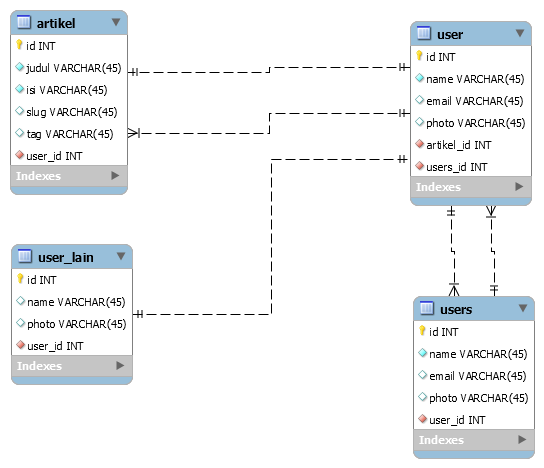
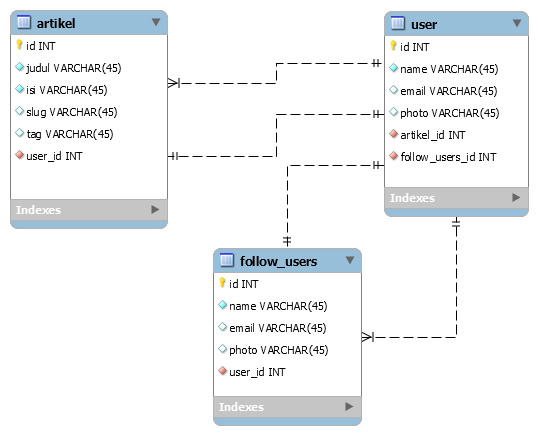
done

diff --git a/resources/views/quiz3/detail_artikel.blade.php b/resources/views/quiz3/detail_artikel.blade.php
@@ -8,16 +8,15 @@
       </div>
       <div class="card-body">
       <ul class="list-group list-group-flush">
-        <li class="list-group-item">Judul Artikel: <br> {{$artikel->judul}}</li>
-        <li class="list-group-item">Slug: {{$artikel->slug}}</li>
+        <li class="list-group-item">Judul Artikel: {{$artikel->judul}}</li>
+        <li class="list-group-item">slug: {{$artikel->slug}}</li>
         <li class="list-group-item">Isi Artikel: <br> {{$artikel->isi}}</li>
-        <ul style="display: flex">
-          <li class="list-group-item"><button class="btn btn-success">{{$artikel->tag}}</button></li>
-          <li class="list-group-item"><button class="btn btn-success">{{$artikel->tag}}</button></li>
-          <li class="list-group-item"><button class="btn btn-success">{{$artikel->tag}}</button></li>
-        </ul>
-        
       </ul>
+      <div class="mt-3 container">
+        <button class="btn btn-success">{{$artikel->tag1}}</button>
+        <button class="btn btn-success">{{$artikel->tag2}}</button>
+        <button class="btn btn-success">{{$artikel->tag3}}</button>
+      </div>
       </div>
     </div>
   </div>

diff --git a/resources/views/quiz3/form_artikel.blade.php b/resources/views/quiz3/form_artikel.blade.php
@@ -9,11 +9,15 @@
    <label for="">Judul Artikel</label>
    <input type="text" class="form-control" name="judul">
    <label for="">Isi Artikel</label>
-   <textarea class="form-control" name="isi" id="" cols="30" rows="10"></textarea>
+   <textarea class="form-control" name="isi" id="" cols="30" rows="10"></textarea> <br>
    <label for="">Slug</label>
-   <input type="text" class="form-control" name="slug">
-   <label for="">Tag</label>
-   <input type="text" class="form-control" name="tag">
+   <input type="text" class="form-control" name="slug"> <br>
+   <label for="">Tag 1</label>
+   <input type="text" class="form-control" name="tag1">
+   <label for="">Tag 2</label>
+   <input type="text" class="form-control" name="tag2">
+   <label for="">Tag 3</label>
+   <input type="text" class="form-control" name="tag3">
    <br>
    <button class="btn btn-primary" type="submit">Create</button>
  </form>

diff --git a/resources/views/quiz3/edit_artikel.blade.php b/resources/views/quiz3/edit_artikel.blade.php
@@ -15,8 +15,12 @@
    <textarea class="form-control" type="text" name="isi" cols="30" rows="10">{{ $artikel->isi}}</textarea> <br>
     <label for="">Slug</label>
    <input type="text" class="form-control" name="slug" value="{{ $artikel->slug }}"> <br>
-   <label for="">Tag</label>
-   <input type="text" class="form-control" name="tag" value="{{ $artikel->tag }}">
+   <label for="">Tag 1</label>
+   <input type="text" class="form-control" name="tag1" value="{{ $artikel->tag1 }}">
+   <label for="">Tag 2</label>
+   <input type="text" class="form-control" name="tag2" value="{{ $artikel->tag2 }}">
+   <label for="">Tag 3</label>
+   <input type="text" class="form-control" name="tag3" value="{{ $artikel->tag3 }}">
     
     <button class="btn btn-success mb-3 mt-3" type="submit">Update Artikel</button>
   </form>

diff --git a/resources/views/quiz3/artikel.blade.php b/resources/views/quiz3/artikel.blade.php
@@ -21,7 +21,7 @@
             <tr>
                 <td>{{ $loop->iteration }}</td>
                 <td>{{ $art->judul }}</td>
-                <td>{{ $art->tag }}</td>
+                <td> <span class="badge badge-success mr-1">{{ $art->tag1 }}</span><span class="badge badge-success mr-1">{{ $art->tag2 }}</span><span class="badge badge-success">{{ $art->tag3 }}</span></td>
                 <td>
                     <a href="{{ url('/artikel/'.$art->id)}}">
                     <button class="btn btn-primary">Show Artikel</button>
@@ -45,6 +45,7 @@
 
 </div>
 @endsection
+
 @push('scripts')
 <script>
     Swal.fire({

diff --git a/database/migrations/2020_07_05_065557_create_artikel_table.php b/database/migrations/2020_07_05_065557_create_artikel_table.php
@@ -18,7 +18,9 @@ class CreateArtikelTable extends Migration
             $table->string('judul');
             $table->longtext('isi');
             $table->string('slug');
-            $table->string('tag');
+            $table->string('tag1')->nullable();
+            $table->string('tag2')->nullable();
+            $table->string('tag3')->nullable();
             $table->timestamps();
         });
     }

diff --git a/resources/views/quiz3/erd.blade.php b/resources/views/quiz3/erd.blade.php
@@ -1,6 +1,6 @@
 @extends('layouts.master')
 @section('content')
-  <div class="card" width="150">
+  <div class="card" width="100">
     <img src="{{ asset('/images/quiz3-erd.png') }}" alt="">
   </div>
 @endsection
